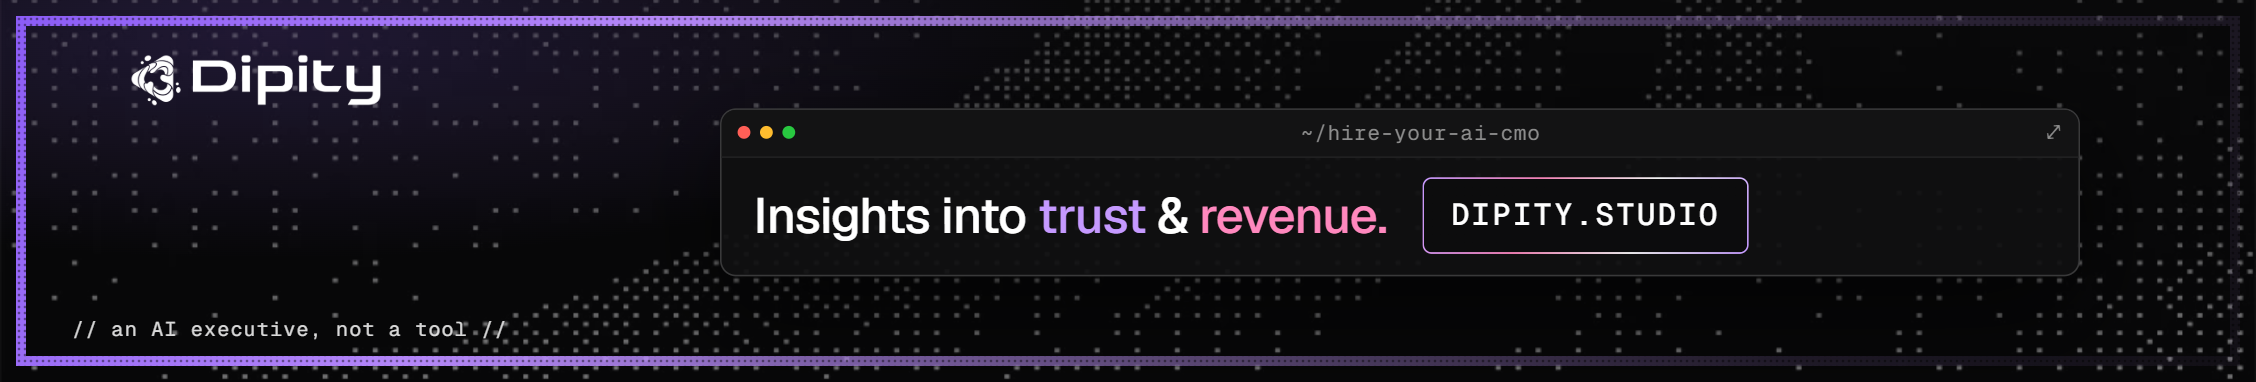
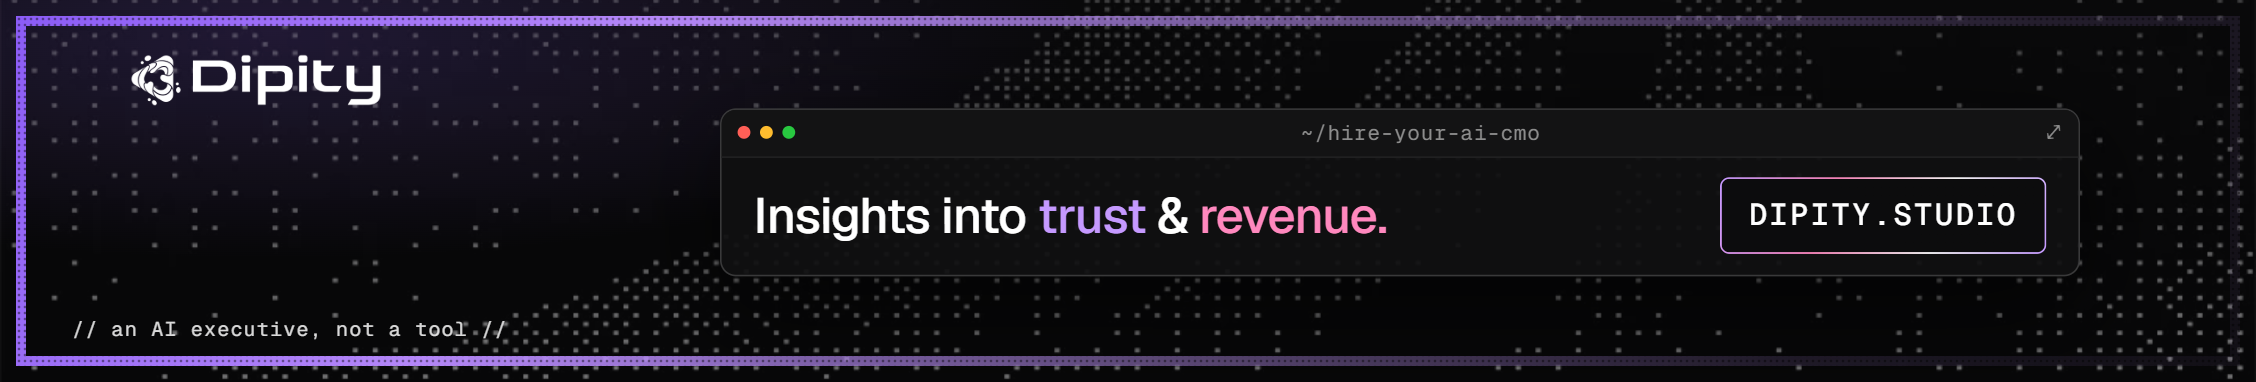
LI company: right-align dipity.studio button in panel

Changed region(s): [[0.6206, 0.5183, 0.8998, 0.6047], [0.6206, 0.4607, 0.8998, 0.4895], [0.7447, 0.6335, 0.7757, 0.6623]]

diff --git a/banners/banners.html b/banners/banners.html
@@ -75,7 +75,7 @@ body{background:#333;font-family:'Geist',sans-serif;-webkit-font-smoothing:antia
 #li-company .pbody{padding:12px 20px 13px;display:flex;align-items:center;gap:22px}
 #li-company .pbody h1{font-size:31px;white-space:nowrap}
 #li-company .pbody .sub{display:none}
-#li-company .cta{font-size:19px;padding:.55em .9em;margin:0;flex:none}
+#li-company .cta{font-size:19px;padding:.55em .9em;margin:0 0 0 auto;flex:none}
 </style>
 </head>
 <body>
